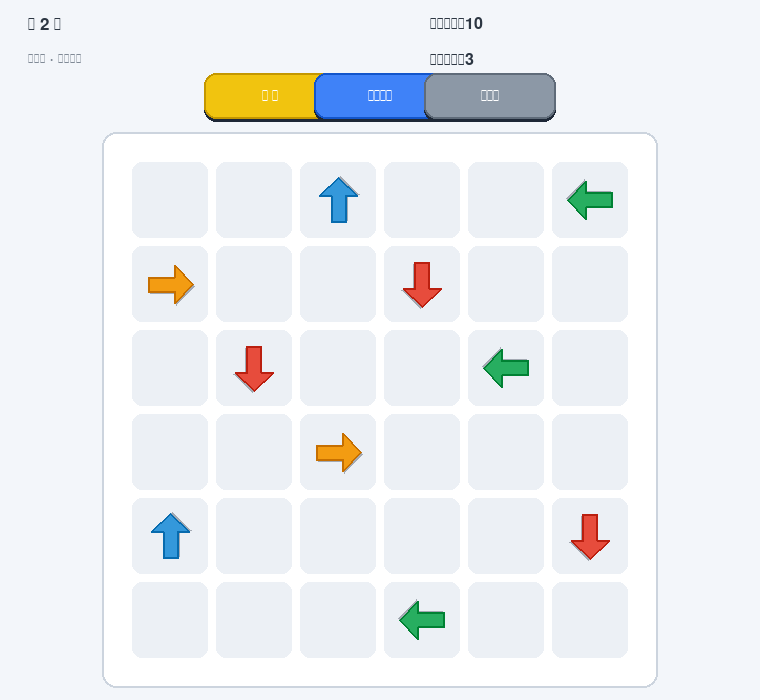
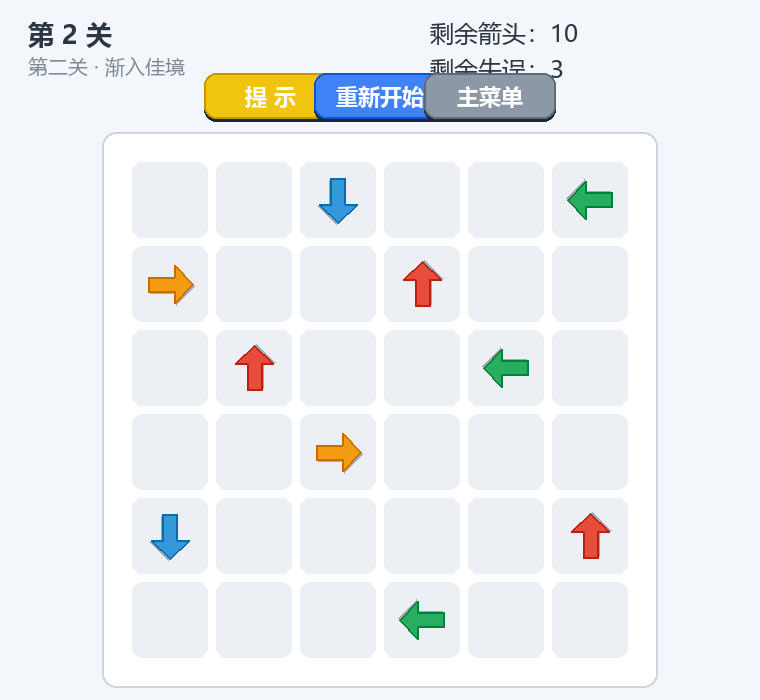
fix: 修复箭头上下方向图标反转和中文文字渲染为豆腐块的问题
- 箭头方向：pygame.transform.rotate 正角度为屏幕顺时针，修正上/下箭头的
  旋转角度映射（上 90°，下 270°）
- 中文文字：pygame 2.6 在 Windows 上的 SysFont 字体枚举存在注册表读取 bug
  （抛 TypeError 导致回退默认字体、中文渲染为豆腐块），改为直接按路径加载
  微软雅黑字体文件
- 重新生成截图与演示 GIF

diff --git a/game/assets.py b/game/assets.py
@@ -6,6 +6,7 @@
 
 import io
 import math
+import os
 import struct
 import wave
 
@@ -14,19 +15,46 @@ import pygame
 from game import config
 
 _FONT_CACHE = {}
-# 依次尝试常见中文字体（Windows 下 microsoftyahei 一定存在），避免渲染出方块
+# 其他平台使用 SysFont 依次尝试常见中文字体
 FONT_CANDIDATES = "microsoftyahei,msyh,simhei,dengxian,simsun"
+
+# Windows 上 pygame 2.6 的 SysFont 字体枚举存在 bug：读取注册表字体信息时
+# 遇到非字符串值会抛 TypeError（见 pygame/sysfont.py 的 initsysfonts_win32），
+# 导致中文字体加载失败、文字渲染成豆腐块。因此 Windows 下直接按路径加载
+# 字体文件，绕过注册表枚举：
+_WINDOWS_FONT_BOLD = r"C:\Windows\Fonts\msyhbd.ttc"   # 微软雅黑 Bold
+_WINDOWS_FONT_NORMAL = r"C:\Windows\Fonts\msyh.ttc"   # 微软雅黑
+_WINDOWS_FONT_FALLBACK = r"C:\Windows\Fonts\simhei.ttf"  # 黑体（备选）
+
+
+def _load_windows_font(size: int, bold: bool):
+    """按路径加载 Windows 中文字体；加载失败返回 None。"""
+    # 粗体优先使用微软雅黑 Bold 字体文件，否则加载普通字体后由 SDL_ttf 合成粗体
+    candidates = [(_WINDOWS_FONT_BOLD, False)] if bold else []
+    candidates += [(_WINDOWS_FONT_NORMAL, bold), (_WINDOWS_FONT_FALLBACK, bold)]
+    for path, synthesize in candidates:
+        if os.path.exists(path):
+            try:
+                font = pygame.font.Font(path, size)
+                font.set_bold(synthesize)
+                return font
+            except Exception:
+                continue
+    return None
 
 
 def get_font(size: int, bold: bool = False) -> pygame.font.Font:
-    """带缓存的中文字体。"""
+    """带缓存的中文字体。Windows 直接按路径加载，其他平台走 SysFont。"""
     key = (size, bold)
     font = _FONT_CACHE.get(key)
     if font is None:
-        try:
-            font = pygame.font.SysFont(FONT_CANDIDATES, size, bold=bold)
-        except Exception:
-            font = pygame.font.Font(None, size)
+        if os.name == "nt":
+            font = _load_windows_font(size, bold)
+        if font is None:
+            try:
+                font = pygame.font.SysFont(FONT_CANDIDATES, size, bold=bold)
+            except Exception:
+                font = pygame.font.Font(None, size)
         _FONT_CACHE[key] = font
     return font
 
@@ -59,8 +87,9 @@ _ARROW_CACHE = {}
 def draw_arrow(surface, center, direction, size, color, alpha=255):
     """在 center 处绘制一支指向 direction 的箭头。
 
-    实现方式：先画一支朝右的箭头底图，再按方向旋转（右 0° / 下 90° /
-    左 180° / 上 270°），旋转结果带缓存。
+    实现方式：先画一支朝右的箭头底图，再按方向旋转。注意 pygame 的
+    rotate 正角度为屏幕顺时针方向（已验证），因此映射为：
+    右 0° / 上 90° / 左 180° / 下 270°，旋转结果带缓存。
     """
     key = (size, color, direction)
     rotated = _ARROW_CACHE.get(key)
@@ -77,7 +106,7 @@ def draw_arrow(surface, center, direction, size, color, alpha=255):
         pygame.draw.polygon(base, (30, 40, 55, 90), shadow)  # 右下投影
         pygame.draw.polygon(base, (*color, 255), points)
         pygame.draw.polygon(base, (*_darken(color, 45), 255), points, 2)
-        angle = {(-1, 0): 270, (1, 0): 90, (0, -1): 180, (0, 1): 0}[direction]
+        angle = {(-1, 0): 90, (1, 0): 270, (0, -1): 180, (0, 1): 0}[direction]
         rotated = pygame.transform.rotate(base, angle)
         _ARROW_CACHE[key] = rotated
 
